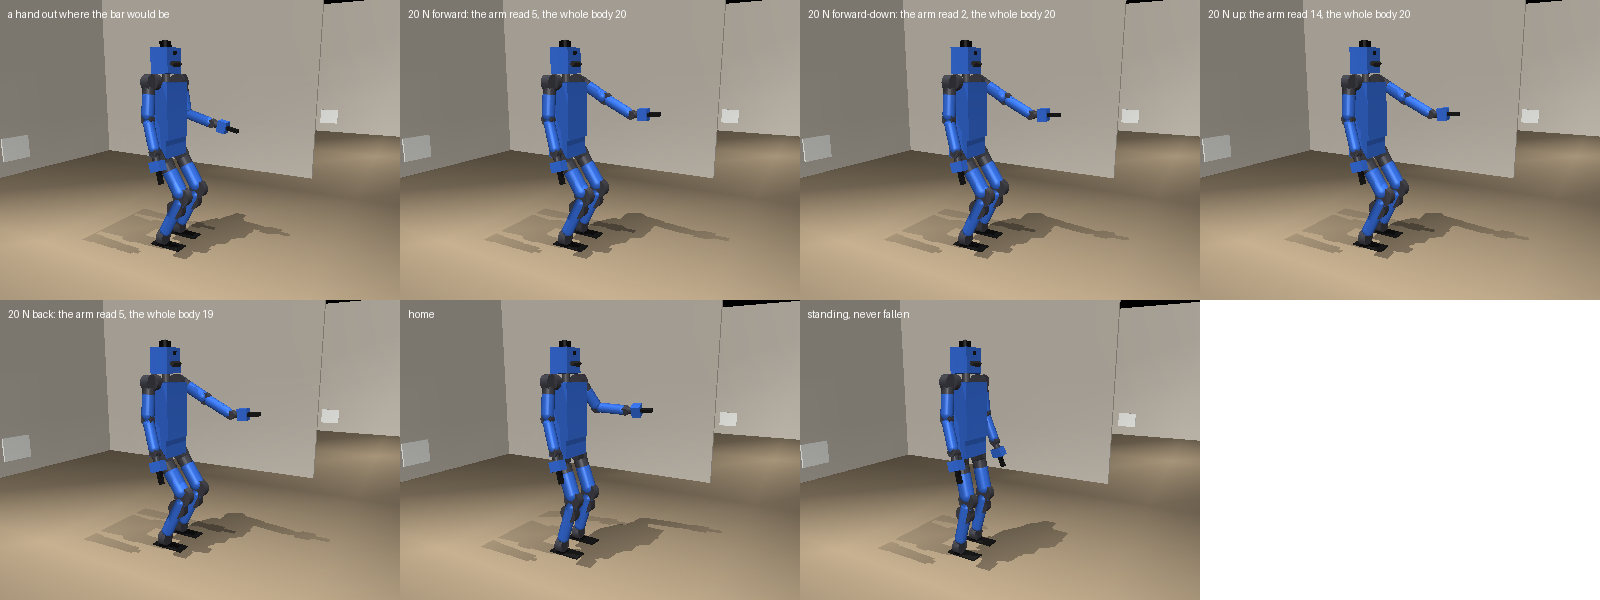
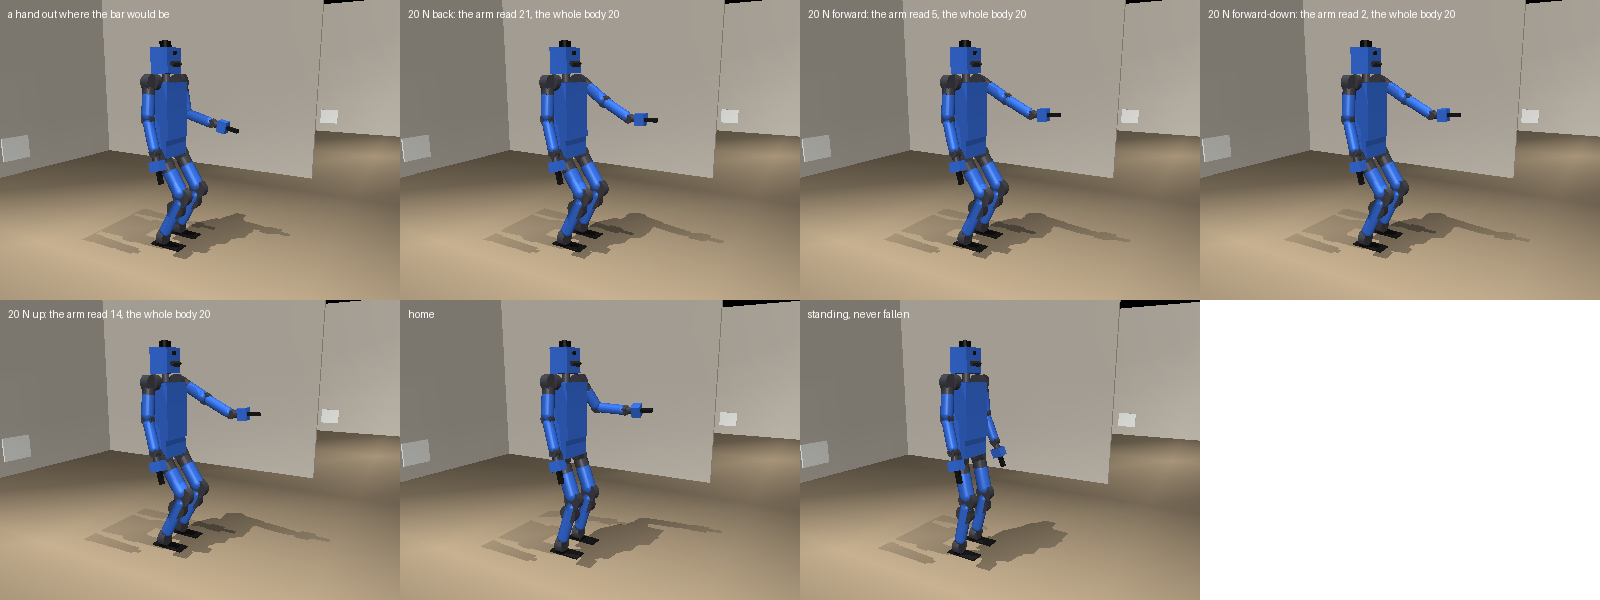
Review fixes: the reading fails closed, its texts say when it holds (#547)
- `Reach.standing` is off until the body's owner says the standing policy
  has the legs (the mission, every step; the spike's standing harness):
  the spike's walkers step a reach too, and a reach that forgot would read
  a sole in the air as the hand's push.
- The hands' force sensors say the whole body is read while the hand is
  out and the body stands, else the arm alone (a hand moved joint by
  joint, at rest, or walking); the vendored hello follows.
- tests: the phases a hand is at work in are named, so dropping one fails;
  the balance is handed the torques less a turning arm's friction; two
  hands at work are each read as their own; a reach reads its arm until
  told it stands; the spy on the simulator's truth now runs `felt` too.
- The `feel` scene pulls back first, the way the arm reads, before the
  ways it is blind to (after them, the arm straightened, back read 5 N).
- SimNotes: what still said the approach's block or `hand_force` read the
  arm's currents; the legs' friction is 0.3-0.6 N*m; other contacts and a
  free-air pull's hardest reading, measured; #544's closing line.

diff --git a/tests/test_felt.py b/tests/test_felt.py
@@ -6,7 +6,8 @@ flights that measured it are `scripts/humanoid_spike.py --feel` and `--bar`.
   1. the legs feel along a straight arm, which the arm alone cannot;
   2. a joint on its stop is left out (its stop carries what its motor does
      not), and a balance that does not close reads nothing;
-  3. a twist at the grip is read as a twist, not a push;
+  3. a twist at the grip is read as a twist, not a push, and two hands at
+     work are each read as their own;
   4. a hand is read off the whole body while it is at work and the
      standing policy has the legs, else off its arm alone -- and the
      mission says which has the legs.
@@ -26,33 +27,38 @@ from pluggybot.humanoid import reach as rc
 from test_hands import _bare_reach
 
 #: The left arm held straight out ahead at a counter's height, its elbow
-#: 0.05 rad off its stop.
+#: 0.05 rad off its stop (the right's mirrors its roll, yaw and wrist roll).
 STRAIGHT = {"shoulder_pitch": -1.45, "shoulder_roll": 0.1, "shoulder_yaw": 0.0, "elbow": 0.05,
             "wrist_pitch": 0.0, "wrist_roll": 0.0}
+_MIRRORED = ("shoulder_roll", "shoulder_yaw", "wrist_roll")
 
 
-def _posed(arm=STRAIGHT):
+def _posed(arm=STRAIGHT, sides=("left",)):
   sm = ha.SelfModel()
   q = np.array([hm.stand_qpos().get(n, 0.0) for n in hm.JOINT_NAMES])
-  for j, v in arm.items():
-    q[hm.JOINT_NAMES.index(f"left_{j}")] = v
+  for s in sides:
+    for j, v in arm.items():
+      q[hm.JOINT_NAMES.index(f"{s}_{j}")] = -v if s == "right" and j in _MIRRORED else v
   sm.pose(q, np.array([0.0, 0.0, -1.0]))
   return sm, q
 
 
-def _staged(sm, push, twist=(0.0, 0.0, 0.0)):
-  """Every joint's torque as its driver would read it, still, with the left
-  hand pushing `push` (N) and twisting `twist` (N*m) on what it holds and
-  the soles holding the rest: G = S^T tau + sum J^T w, the soles' share the
-  least that balances the trunk."""
+def _staged(sm, pushes, twists=None):
+  """Every joint's torque as its driver would read it, still, with each hand
+  of `pushes` pushing that (N) and twisting `twists`' (N*m) on what it holds
+  and the soles holding the rest: G = S^T tau + sum J^T w, the soles' share
+  the least that balances the trunk."""
   m, d = sm.m, sm.d
   d.qvel[:] = 0.0
   mujoco.mj_comVel(m, d)
   bias = np.zeros(m.nv)
   mujoco.mj_rne(m, d, 0, bias)
-  jp, jr = np.zeros((3, m.nv)), np.zeros((3, m.nv))
-  mujoco.mj_jacSite(m, d, jp, jr, sm.grip["left"])
-  outside = jp.T @ -np.asarray(push, float) + jr.T @ -np.asarray(twist, float)
+  outside = np.zeros(m.nv)
+  for side, push in pushes.items():
+    jp, jr = np.zeros((3, m.nv)), np.zeros((3, m.nv))
+    mujoco.mj_jacSite(m, d, jp, jr, sm.grip[side])
+    twist = (twists or {}).get(side, np.zeros(3))
+    outside += jp.T @ -np.asarray(push, float) + jr.T @ -np.asarray(twist, float)
   soles = []
   for g in sm.soles:
     jp, jr = np.zeros((3, m.nv)), np.zeros((3, m.nv))
@@ -74,7 +80,7 @@ def test_the_legs_feel_along_a_straight_arm_where_the_arm_cannot(way):
   down (#547). The whole body's balance reads it off the legs."""
   sm, q = _posed()
   push = 20.0 * np.asarray(way, float) / np.linalg.norm(way)
-  tau = _staged(sm, push)
+  tau = _staged(sm, {"left": push})
   sm.pose(q, np.array([0.0, 0.0, -1.0]))
   felt = sm.felt(["left"], tau, _still(sm))["left"]
   assert np.allclose(felt, push, atol=0.1)
@@ -86,10 +92,11 @@ def test_the_legs_feel_along_a_straight_arm_where_the_arm_cannot(way):
 
 def test_a_joint_on_its_stop_is_left_out_of_the_reading():
   """Pushed along, an arm straightened onto its elbow's stop, which held 3.1
-  N*m its motor never saw: read in, the hand read 4 N long and 9 N up."""
+  N*m its motor never saw: on the bench the hand read 11 N of 20; staged
+  here, read in, it reads 4 N long and 9 N up."""
   sm, q = _posed({**STRAIGHT, "elbow": 0.0})
   push = np.array([20.0, 0.0, 0.0])
-  tau = _staged(sm, push)
+  tau = _staged(sm, {"left": push})
   tau[hm.JOINT_NAMES.index("left_elbow")] += 3.1
   sm.pose(q, np.array([0.0, 0.0, -1.0]))
   assert np.allclose(sm.felt(["left"], tau, _still(sm))["left"], push, atol=0.1)
@@ -99,9 +106,21 @@ def test_a_twist_at_the_grip_is_read_as_a_twist_not_a_push():
   """A grip twists what it holds (on the hands check's grips 0.7-1.7 N*m on
   average): taken as a force alone, a twist of 1 N*m read 3 N of push."""
   sm, q = _posed()
-  tau = _staged(sm, np.zeros(3), twist=(0.0, 1.0, 0.0))
+  tau = _staged(sm, {"left": np.zeros(3)}, {"left": (0.0, 1.0, 0.0)})
   sm.pose(q, np.array([0.0, 0.0, -1.0]))
   assert np.linalg.norm(sm.felt(["left"], tau, _still(sm))["left"]) < 0.5
+
+
+def test_two_hands_at_work_are_each_read_as_their_own():
+  """Each hand's force and twist are the balance's own unknowns, side by
+  side: the legs feel the two together, and each arm's joints tell them
+  apart."""
+  sm, q = _posed(sides=hm.SIDES)
+  pushes = {"left": np.array([20.0, 0.0, 0.0]), "right": np.array([0.0, -5.0, 15.0])}
+  tau = _staged(sm, pushes)
+  felt = sm.felt(list(hm.SIDES), tau, _still(sm))
+  for s in hm.SIDES:
+    assert np.allclose(felt[s], pushes[s], atol=0.1)
 
 
 def test_a_balance_that_does_not_close_reads_nothing():
@@ -111,30 +130,52 @@ def test_a_balance_that_does_not_close_reads_nothing():
   nothing (and the reach keeps the arm's, below)."""
   sm, q = _posed()
   arm = sm.arm["left"]
-  tau = _staged(sm, np.array([0.0, -40.0, 0.0]))
-  tau[arm] = _staged(sm, np.array([0.0, 20.0, 0.0]))[arm]
+  tau = _staged(sm, {"left": np.array([0.0, -40.0, 0.0])})
+  tau[arm] = _staged(sm, {"left": np.array([0.0, 20.0, 0.0])})[arm]
   assert sm.felt(["left"], tau, _still(sm)) == {}
 
 
-def _feeling(phase, standing, felt=2.0):
+def _feeling(phase, standing, felt=2.0, friction=None, qd=None):
   r = _bare_reach()
   n = len(hm.JOINT_NAMES)
-  r.tau, r.qd, r.friction, r.still = np.zeros(n), np.zeros(n), {}, np.zeros(n)
+  r.tau, r.qd, r.still = np.zeros(n), np.zeros(n) if qd is None else qd, np.zeros(n)
+  r.friction = friction or {}
   r.force = {s: np.zeros(3) for s in hm.SIDES}
   r.self_model.hand_force = lambda side, tau: np.array([1.0, 0.0, 0.0])
-  r.self_model.felt = lambda hands, tau, still: (
-    {} if felt is None else {s: np.array([felt, 0.0, 0.0]) for s in hands})
+  r.handed = []
+
+  def felt_(hands, tau, still):
+    r.handed.append(tau.copy())
+    return {} if felt is None else {s: np.array([felt, 0.0, 0.0]) for s in hands}
+  r.self_model.felt = felt_
   r.phase["left"], r.standing = phase, standing
   r._feel()
   return r
 
 
-@pytest.mark.parametrize("phase", rc.FELT_PHASES)
+#: A hand AT WORK: on its way in (the reach's `BLOCKED_N`), holding, pulled,
+#: stopped, carried (the force move's own loop) or on its way out -- every
+#: phase named, so that dropping one from `FELT_PHASES` fails here.
+AT_WORK = ("approach", "hold", "pull", "blocked", "carry", "retreat")
+
+
+@pytest.mark.parametrize("phase", AT_WORK)
 def test_a_hand_at_work_standing_is_read_off_the_whole_body(phase):
   r = _feeling(phase, standing=True)
   assert r.force["left"][0] == 2.0 and r.arm_force["left"][0] == 1.0
   # ...and a hand at rest beside it off its arm
   assert r.force["right"][0] == 1.0
+
+
+def test_the_whole_body_is_handed_the_torques_less_a_turning_arms_friction():
+  """The arm's friction, calibrated, comes off where a joint turns before
+  the balance reads its row, as the arm's own reading takes it off."""
+  elbow = hm.JOINT_NAMES.index("left_elbow")
+  qd = np.zeros(len(hm.JOINT_NAMES))
+  qd[elbow] = 0.5
+  r = _feeling("hold", standing=True, qd=qd,
+               friction={"left_elbow": {"coulomb": 0.1, "viscous": 0.2}})
+  assert r.handed[0][elbow] == pytest.approx(-(0.1 + 0.2 * 0.5))
 
 
 @pytest.mark.parametrize("phase", ["rest", "move", "joints", "home"])
@@ -150,6 +191,15 @@ def test_a_walking_body_reads_its_hands_off_their_arms():
   """The balance has both soles planted: walking, a swinging leg's own
   torques read up to 400 N at a sole (`humanoid.odometry`)."""
   assert _feeling("hold", standing=False).force["left"][0] == 1.0
+
+
+def test_a_reach_reads_its_arms_alone_until_its_owner_says_it_stands():
+  """Fail closed: a body stepping a reach while it walks (the spike's
+  walkers do) must not read a sole in the air as the hand's push."""
+  from pluggybot.humanoid.policy import StandDriver
+  model = mujoco.MjModel.from_xml_string(hm.body_xml())
+  data = mujoco.MjData(model)
+  assert rc.Reach(model, data, StandDriver(model, data)).standing is False
 
 
 @pytest.mark.parametrize("legs, standing", [("stand", True), ("walk", False)])

diff --git a/scripts/humanoid_spike.py b/scripts/humanoid_spike.py
@@ -23,9 +23,10 @@ the parts and the bill.
                 hand (#544); `bar` -- the `pull` verb on a locked handle at
                 its most, back, up, forward and down, how each ended and the
                 most the bar took said (#547); `feel` -- a hand held out where the
-                bar would be, 20 N staged at its grip pushing away, away and
-                down, up and back, what its arm read and what the whole body
-                read said (#547); `demo` -- #466's chest on a counter, its
+                bar would be, 20 N staged at its grip pulling back, then
+                pushing away, away and down, and up, what its arm read and
+                what the whole body read said (#547); `demo` -- #466's chest
+                on a counter, its
                 knob found by its tag, reached and gripped, every act a
                 `Body` member; `walk` -- from the living room into the
                 kitchen and back, steered by its own map; `rough` -- the walker
@@ -1066,6 +1067,8 @@ class Humanoid:
 
   def step(self) -> None:
     self.stand.step()
+    # the standing policy has the legs: a hand's force off the whole body
+    self.reach.standing = True
     self.reach.step()
     mujoco.mj_step(self.m, self.d)
 
@@ -2260,11 +2263,12 @@ def feel_table(npz: str | None = None, jobs: int = 4) -> list[dict]:
 
 #: The `feel` scene (#547): the left hand held out where the locked bar
 #: is, no bar, `FEEL_N` staged at its grip along each of `FEEL_SCENE`'s
-#: ways -- the three a straight arm is blindest to, and one it reads -- each
+#: ways -- one its arm reads, then the three a straight arm is blindest to
+#: (after them, the arm straightened, back read 5 N of 20) -- each
 #: built over `FEEL_BUILD_S` and held `FEEL_HOLD_S`: what its arm read of it
 #: and what the whole body read, over the hold's second half, said once it
 #: is let go. Staged with the truth.
-FEEL_SCENE = ("forward", "forward-down", "up", "back")
+FEEL_SCENE = ("back", "forward", "forward-down", "up")
 
 
 def feel_scene(h: Humanoid, records: list | None = None):

diff --git a/src/pluggybot/procedure/axes.py b/src/pluggybot/procedure/axes.py
@@ -214,8 +214,9 @@ for _s in HANDS:
     SENSORS[f"{_s}.f{_a}"] = Sensor(
       f"{_s}.f{_a}", _hand_force(_s, _k),
       f"the force your {_s} hand pushes with, N, your stance frame ({_a}), off your "
-      "whole body's motor currents less your own weight and your joints' friction; it "
-      "reads truest held still")
+      "motor currents less your own weight and your joints' friction -- your whole "
+      "body's while that hand is out and you stand, else its arm's alone; it reads "
+      "truest held still")
   SENSORS[f"{_s}.held"] = Sensor(
     f"{_s}.held", (lambda side: lambda life: 1.0 if life.body.gripped(side) else 0.0)(_s),
     f"1 while your {_s} gripper says it holds something: its jaws stopped short of "

diff --git a/src/pluggybot/humanoid/reach.py b/src/pluggybot/humanoid/reach.py
@@ -464,8 +464,9 @@ class Reach:
     sm = self.self_model
     self.still = friction.still(self.friction, sm.m.dof_frictionloss[sm.vadr])
     #: Whether the standing policy has the legs, both soles down: the body's
-    #: owner says (`HumanoidMission`); the whole body's reading assumes it.
-    self.standing = True
+    #: owner says, every step (`HumanoidMission`); the whole body's reading
+    #: assumes it, so until it is said the arm's alone is read.
+    self.standing = False
     #: The force each hand pushes with, N, stance frame: the whole body's
     #: reading for a hand at work, standing, else its arm's (`FELT_PHASES`)
     #: -- and its arm's alone, whichever is read.

diff --git a/tests/test_humanoid.py b/tests/test_humanoid.py
@@ -393,6 +393,8 @@ def test_the_robot_steers_off_its_senses_never_the_simulators_truth():
   spy = _Spy(data)
   stand = StandDriver(model, spy)
   reach = Reach(model, spy, stand)
+  # ...the hand's force read off the whole body as it goes in (`felt`)
+  reach.standing = True
   spy.read.clear()
   assert reach.reach("left", HandGoal(np.array([0.45, 0.2, 0.94]), FORWARD))
   reach.grippers["left"].open()

diff --git a/docs/SimNotes.md b/docs/SimNotes.md
@@ -4669,16 +4669,17 @@ its constant:**
   second or two after its command; an approach begun on the command's
   arrival stopped short. It begins on the robot's own measure
   (`reach.POSTURE_TOL`), and once its trunk is still (`reach.TRUNK_STILL_RATE`,
-  #520): the force read off the currents assumes the arm still, and the
+  #520): the force read off the drivers assumes the body still, and the
   floor's approach begun as the bow stopped turning (0.59 rad/s) read
   492 N at the hand and stopped 6 cm short of it.
 - *A hand that cannot get there stops* (`reach.BLOCKED_M`, `BLOCKED_N`,
-  held `BLOCKED_S`): its own solve 3 cm out of reach, or its arm's currents
-  reading a 30 N push on its way in. Unstopped, a crouch left a chest's knob
-  10.7 cm out of reach and the arm drove the gripper into the counter's
-  edge until it pushed the robot over backwards. The force read off the
-  currents assumes the arm still, and a deep bow's folding read 81 N for an
-  instant: the push must last 0.15 s.
+  held `BLOCKED_S`): its own solve 3 cm out of reach, or the force it reads
+  (its arm's currents then, the whole body's since #547) a 30 N push on its
+  way in. Unstopped, a crouch left a chest's knob 10.7 cm out of reach and
+  the arm drove the gripper into the counter's edge until it pushed the
+  robot over backwards. The force read off the drivers assumes the body
+  still, and a deep bow's folding read 81 N for an instant: the push must
+  last 0.15 s.
 
 **Compute** (#507's stage 2 line: ~$8 likely, $14 the stop): the G1 check
 and six standing runs on two rented RTX 5090s (Vast.ai, $0.49/h), 2.83
@@ -4693,7 +4694,8 @@ cannot serve says why (`NotImplementedError`: the quadruped's dock, rack
 and tools). `Body` gains a hand's members -- `reach_routine` (a grip pose
 in the believed world frame, the posture the body's to choose),
 `release_routine`, `grip_routine`, `gripped` (the gripper's own reading)
-and `hand_force` (off the arm's currents) -- which the quadruped refuses
+and `hand_force` (off the arm's currents; a hand at work, standing, off the
+whole body's since #547) -- which the quadruped refuses
 (its arm is planar, on its back) and the stub answers.
 
 ![The `demo` scene: #466's chest on a counter; the humanoid finds its knob
@@ -5660,9 +5662,11 @@ at a counter's height holds 20-40 N across the floor against it for 3 s,
 and `pull` asks at most 20 N (`steps.PULL_MOST_N`, Ben, 2026-10-25), its
 text telling the robot that pushing away holds around two thirds of that
 -- a margin under the 20 N pushing held. Our own procedures do every hands
-job with 4-20 N. Holding more wants a hand force the robot can read: a
-sensor at the wrist (Parts.md, "The humanoid body"), or a reading of the
-arm's currents that knows its friction.
+job with 4-20 N. Holding more wants a hand force the robot can read and a
+policy can be shown: the whole body's reading (#547) reads it, but it is
+the legs' torques, the policy's own commands, and stand12 shown it fell at
+20 N ("A hand's force off the whole body", below); a sensor at the wrist
+(Parts.md, "The humanoid body") stays the part to add.
 
 ## The force move against a held hand (issue #547)
 
@@ -5773,14 +5777,16 @@ least squares for each sole's wrench and the hand's force and twist about
 its grip, over the trunk's six rows (no motor pushes there), each leg's
 joints and the working arm's. Each row is weighed by what it cannot know:
 a still joint's friction (the arms' as calibrated, the legs' their
-drawing's 0.6 N·m), and on the trunk's rows the motion a balance taken as
+drawing's 0.3-0.6 N·m), and on the trunk's rows the motion a balance taken as
 still leaves out (2 N, 1 N·m). A joint whose encoder reads it on its stop
 is left out, the hand's twist is taken as about 1 N·m, and a balance whose
 rows will not agree reads nothing (`CLOSES`). The reach reads
 it for a hand at work -- on its way in, holding, carried, pulling, stopped
-or on its way out -- while the standing policy has the legs; otherwise,
-and walking (a sole in the air), the arm's own (`Reach.arm_force`). A read
-costs 0.16 ms, the arm's 0.07.
+or on its way out -- while the standing policy has the legs, which the
+mission says every step (`Reach.standing`, off until it is said: the
+spike's walkers step a reach too); otherwise, a hand moved joint by joint
+or at rest included, and walking (a sole in the air), the arm's own
+(`Reach.arm_force`). A read costs 0.16 ms, the arm's 0.07.
 
 **The bench** (`humanoid_spike.py --feel`): 20 N staged at the grip, the
 left hand held by the reach where #544's locked bar is (0.84 m up, 0.43 m
@@ -5835,9 +5841,16 @@ mean force while it held something):
 | the whole body's | 4.1 | 5.2 | 2.6 | 4.7 | 3.0 / 4.0 |
 | ...a force alone, no twist | 6.0 | 6.9 | 4.4 | 14.1 | 2.3 / 2.9 |
 
-⚠ Everything the world pushes on but the soles reads as the hands': on the
+⚠ Everything the world pushes on but the soles reads as the hands'. Staged
+on the robot's model of itself, 20 N sideways on the resting forearm read
+as 6.8 N at the working hand and 20 N on a thigh as 5.0 (the working arm's
+own rows outvote most of it: 1 kg in the resting hand read 0.8); on the
 cube's job, in the 4 % of its readings where some other part of the robot
-touched the world, the whole body read 5.9 N rms off, the arm 4.1.
+touched the world, the whole body read 5.9 N rms off, the arm 4.1. ⚠ And
+in free air a long pull's hardest reading rides higher: pulling up 0.3 m
+at 4 N with nothing held, `pull.force` read 3.6 N off the whole body
+where the arm's read 2.1 -- near a procedure's "it pressed" of 3 N (the
+cube's set-down, 0.1 m, read 2.4 either way).
 
 **On the locked bar** (`--bar`, the hardest 0.1 s mean on the bar), the
 force move closed on it: at 10 N asked 23.7 → 21.8 N, at 20 N 36.1 →
@@ -5871,8 +5884,8 @@ was out, so the hand went on, its jaws shut on nothing six times, and the
 last way home fell.
 
 ![The `feel` scene: the left hand held out where the bar would be, 20 N
-staged at its grip pushing away, away and down, up and back, what its arm
-read of each and what the whole body read](figures/humanoid_feel.png)
+staged at its grip pulling back, then pushing away, away and down, and up,
+what its arm read of each and what the whole body read](figures/humanoid_feel.png)
 
 (`MUJOCO_GL=egl uv run python scripts/humanoid_spike.py --strip feel --out
 docs/figures/humanoid_feel.png`; `--view feel` in the viewer.)

diff --git a/CLAUDE.md b/CLAUDE.md
@@ -358,9 +358,9 @@ save a filmstrip PNG named after the script.
   elbow's stop read 11 of 20), ⚠ the hand's TWIST an unknown about 1 N*m
   (`TWIST_SD`; as none, the jobs read 1.3-3x worse), ⚠ a balance whose rows
   will not agree reads nothing (`CLOSES`: dragged onto a sole's edge it read
-  60 N the wrong way), ⚠ walking, the arm's alone (`mission` sets
-  `standing`). It reads all the world pushes on but the soles as the
-  hands'. ⚠ Never fed to a standing policy: it is the
+  60 N the wrong way), ⚠ the arm's alone for a hand not out and while
+  walking (`Reach.standing` is off until the mission says so, every step).
+  It reads all the world pushes on but the soles as the hands'. ⚠ Never fed to a standing policy: it is the
   legs' torques, the policy's own commands (stand12 fell at 20 N). ⚠ The
   move still puts 1.7-2.2x its ask on a locked bar: its LOOP's -- closed on
   the bar's true force it put 1.7x.

diff --git a/docs/Hands.md b/docs/Hands.md
@@ -51,9 +51,10 @@ and a hand that works in it.
 **This body.** Two Unitree Dex1-1 two-jaw grippers (90 mm stroke, 5-120 N a
 pad, adjustable: `humanoid/parts.py`), each on a six-joint arm whose grip
 reaches 0.58 m from a shoulder 1.15 m up; the hand's force read off the
-whole body's motor currents through the robot's model of itself, standing
--- the legs feel what a straight arm carries through its structure (#547:
-within a newton every way on a bench, SimNotes) -- else off its arm's; the
+whole body's motor currents through the robot's model of itself while the
+hand is out and the body stands -- the legs feel what a straight arm
+carries through its structure (#547: within a newton every way on a bench,
+SimNotes) -- else off its arm's; the
 grip's own word -- its jaws' gap and
 squeeze; the head camera's tags (a face's middle, which way it looks, which
 way its edges run); the D435's depth (`measure`); a posture -- the
